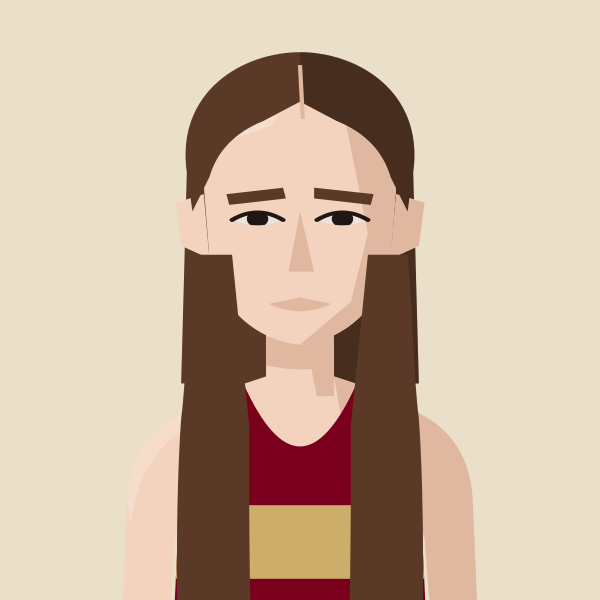
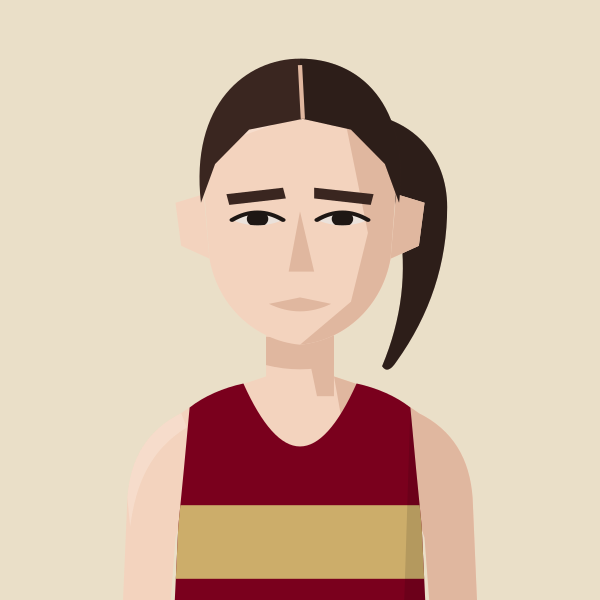
Steph Hewitt: sleek dark hair, centre parting, tied back
Claude-Session: https://claude.ai/code/session_01MgmDWhFqnSSnP4iBLKXUZC

Changed region(s): [[0.3, 0.06, 0.75, 1.0], [0.27, 0.42, 0.45, 1.0]]

diff --git a/files/index.html b/files/index.html
@@ -581,7 +581,7 @@ return m;})();
 const portraitFile=(name,club)=>{const k=normalizeNameForCompare(name||'').replace(/\s*\(([^)]*)\)$/,(m,c)=>CLUBS[c.toUpperCase()]?'':m);const a=PORTRAITS[k];if(a&&a.club===club)return a.file;const b=PORTRAITS[k+'@'+club];return b?b.file:null;};
 // Athlete header figure: superstar portrait if we have one, else a grey runner in the club vest, else the plain vest icon
 // Changes whenever any portrait changes (set by tools/build_og.py), so browsers fetch fresh images instead of old cached ones
-const PORTRAIT_V='2b08d0ff';
+const PORTRAIT_V='1ba2fe68';
 const AthletePortrait=({name,club,w,fill,onClick})=>{const[failed,setFailed]=useState(false);const file=portraitFile(name,club);const src=file?`/portraits/athletes/${file}.svg?v=${PORTRAIT_V}`:PORTRAIT_CLUBS.has(club)?`/portraits/clubs/${club.replace(/\//g,'').replace(/&/g,'and')}.svg?v=${PORTRAIT_V}`:null;if(!src||failed)return<div onClick={onClick} className={onClick?'cursor-pointer':''}><ClubShield club={club} size={w}/></div>;const h=Math.round(w*148/126),ih=Math.round(w*1.4);if(fill)return<div onClick={onClick} className="cursor-pointer" style={{alignSelf:'stretch',minHeight:h,aspectRatio:'126 / 148',flexShrink:0,position:'relative',borderRadius:4,overflow:'hidden'}}><img src={src} alt={file?`Portrait of ${name.replace(/\s*\([^)]*\)$/,'')}`:`Runner in ${CLUBS[club]?.name||club} vest`} style={{position:'absolute',top:0,left:0,display:'block',width:'100%',height:'auto'}} onError={()=>setFailed(true)}/></div>;return<div style={{width:w,height:h,borderRadius:4,overflow:'hidden',flexShrink:0}}><img src={src} alt={file?`Portrait of ${name.replace(/\s*\([^)]*\)$/,'')}`:`Runner in ${CLUBS[club]?.name||club} vest`} width={w} height={ih} style={{display:'block',width:w,height:ih}} onError={()=>setFailed(true)}/></div>;};
 const getClubVestSvg=(club)=>{
   const p="M3 0 L6 0 Q7 4 10 5 Q13 4 14 0 L17 0 L17 20 L3 20 Z";

diff --git a/tools/gen_portraits.py b/tools/gen_portraits.py
@@ -706,4 +706,4 @@ save("holly-nixon", figure("BEL", skin=1, hair="ponytail", hair_colour="#C9A35F"
 save("sophie-harris", figure("BEL", skin=1, hair="plait", hair_colour="#6B4A32"))
 save("isabel-brinsden", figure("E&E", skin=1, hair="wavytie", hair_colour="#C46A34"))
 save("mimi-corden-lloyd", figure("BEL", skin=2, hair="tightbun", hair_colour="#3A2620", necklace="#C9A646", parting=True))
-save("steph-hewitt", figure("BEL", skin=1, hair="longflow", hair_colour="#5A3A26"))
+save("steph-hewitt", figure("BEL", skin=1, hair="ponytail", hair_colour="#3A2620"))
